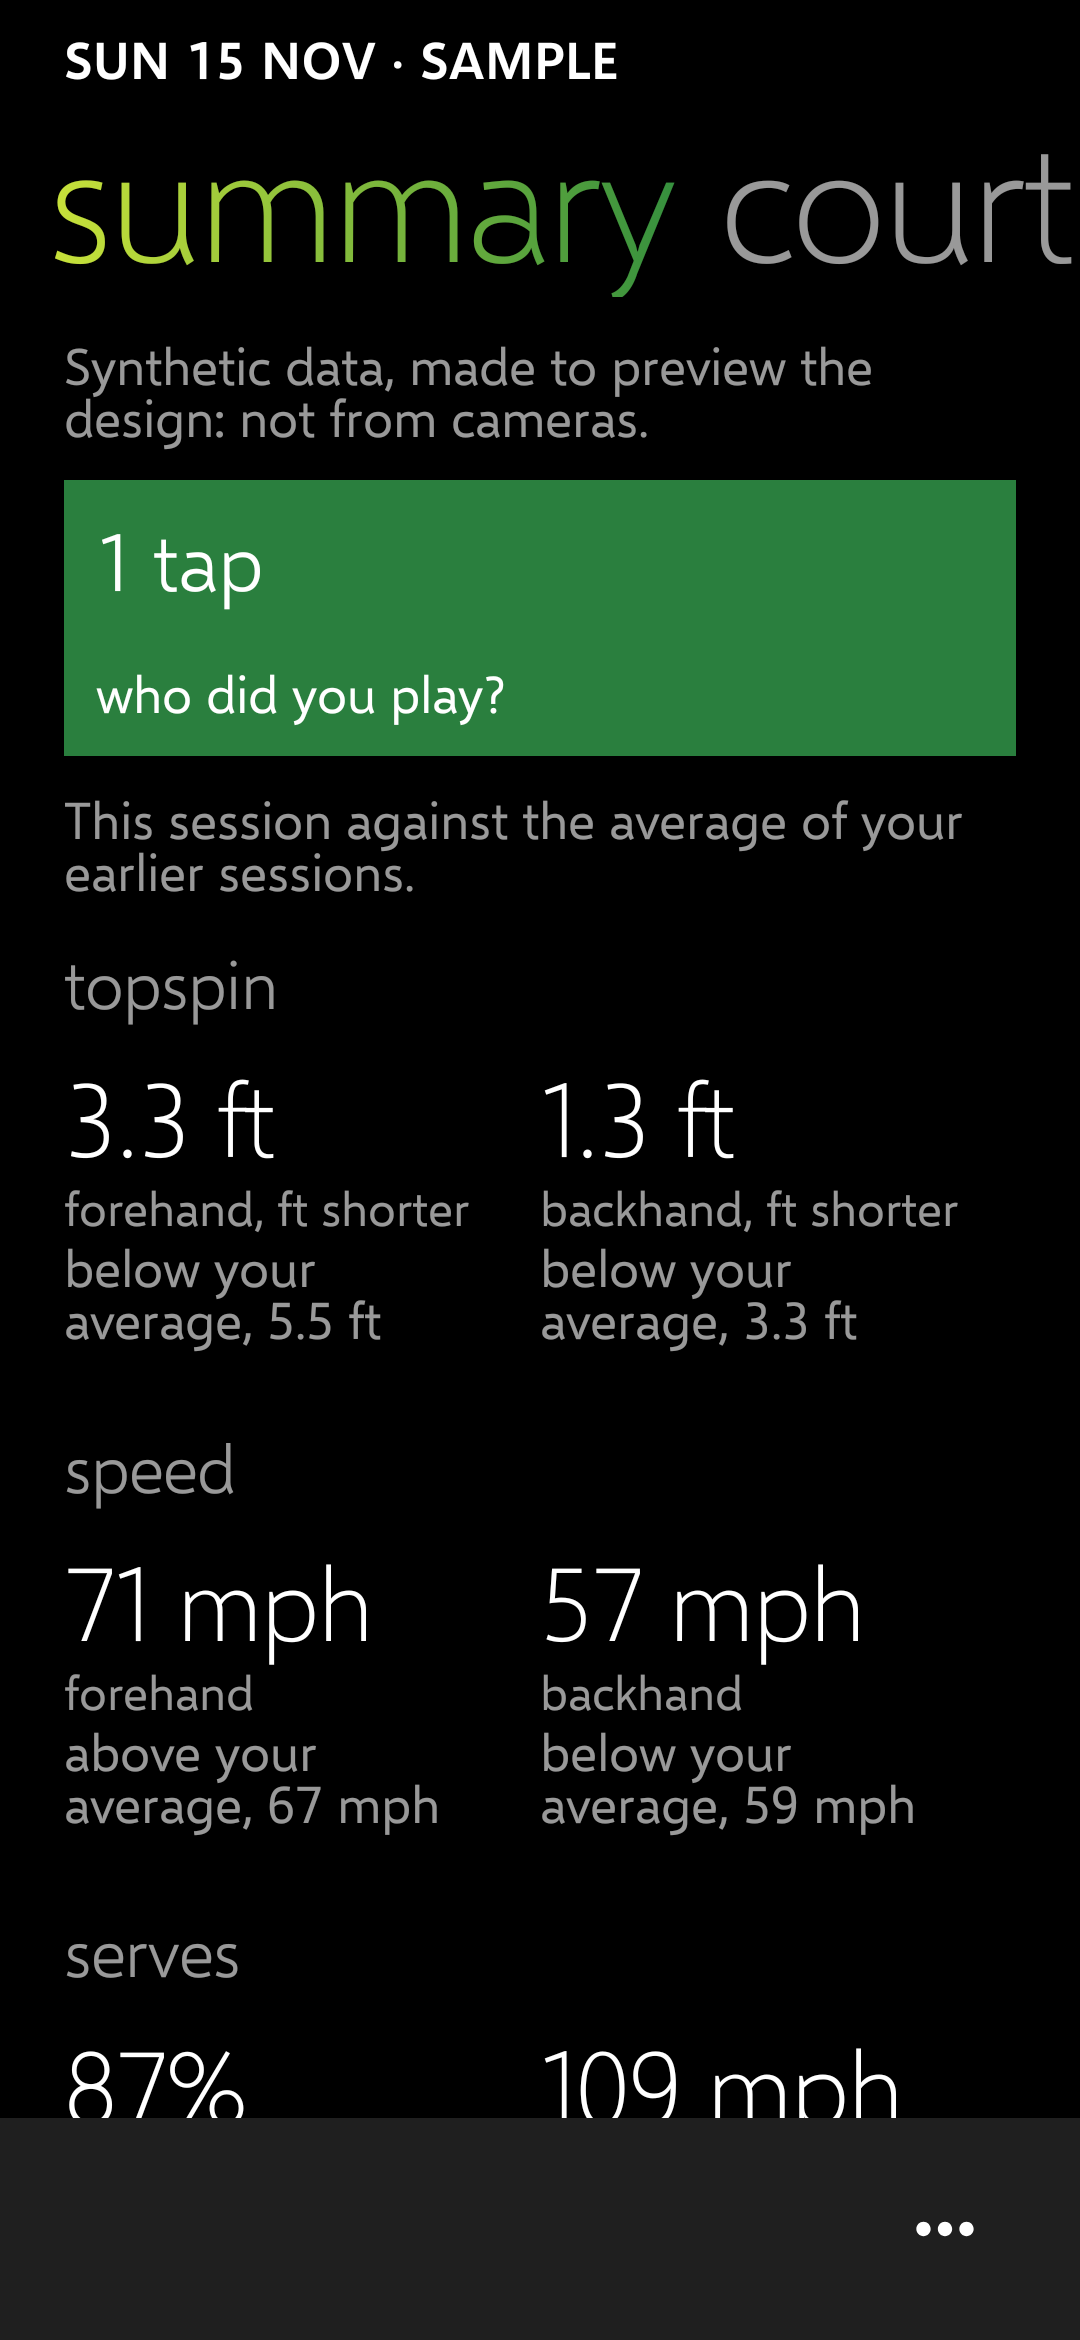
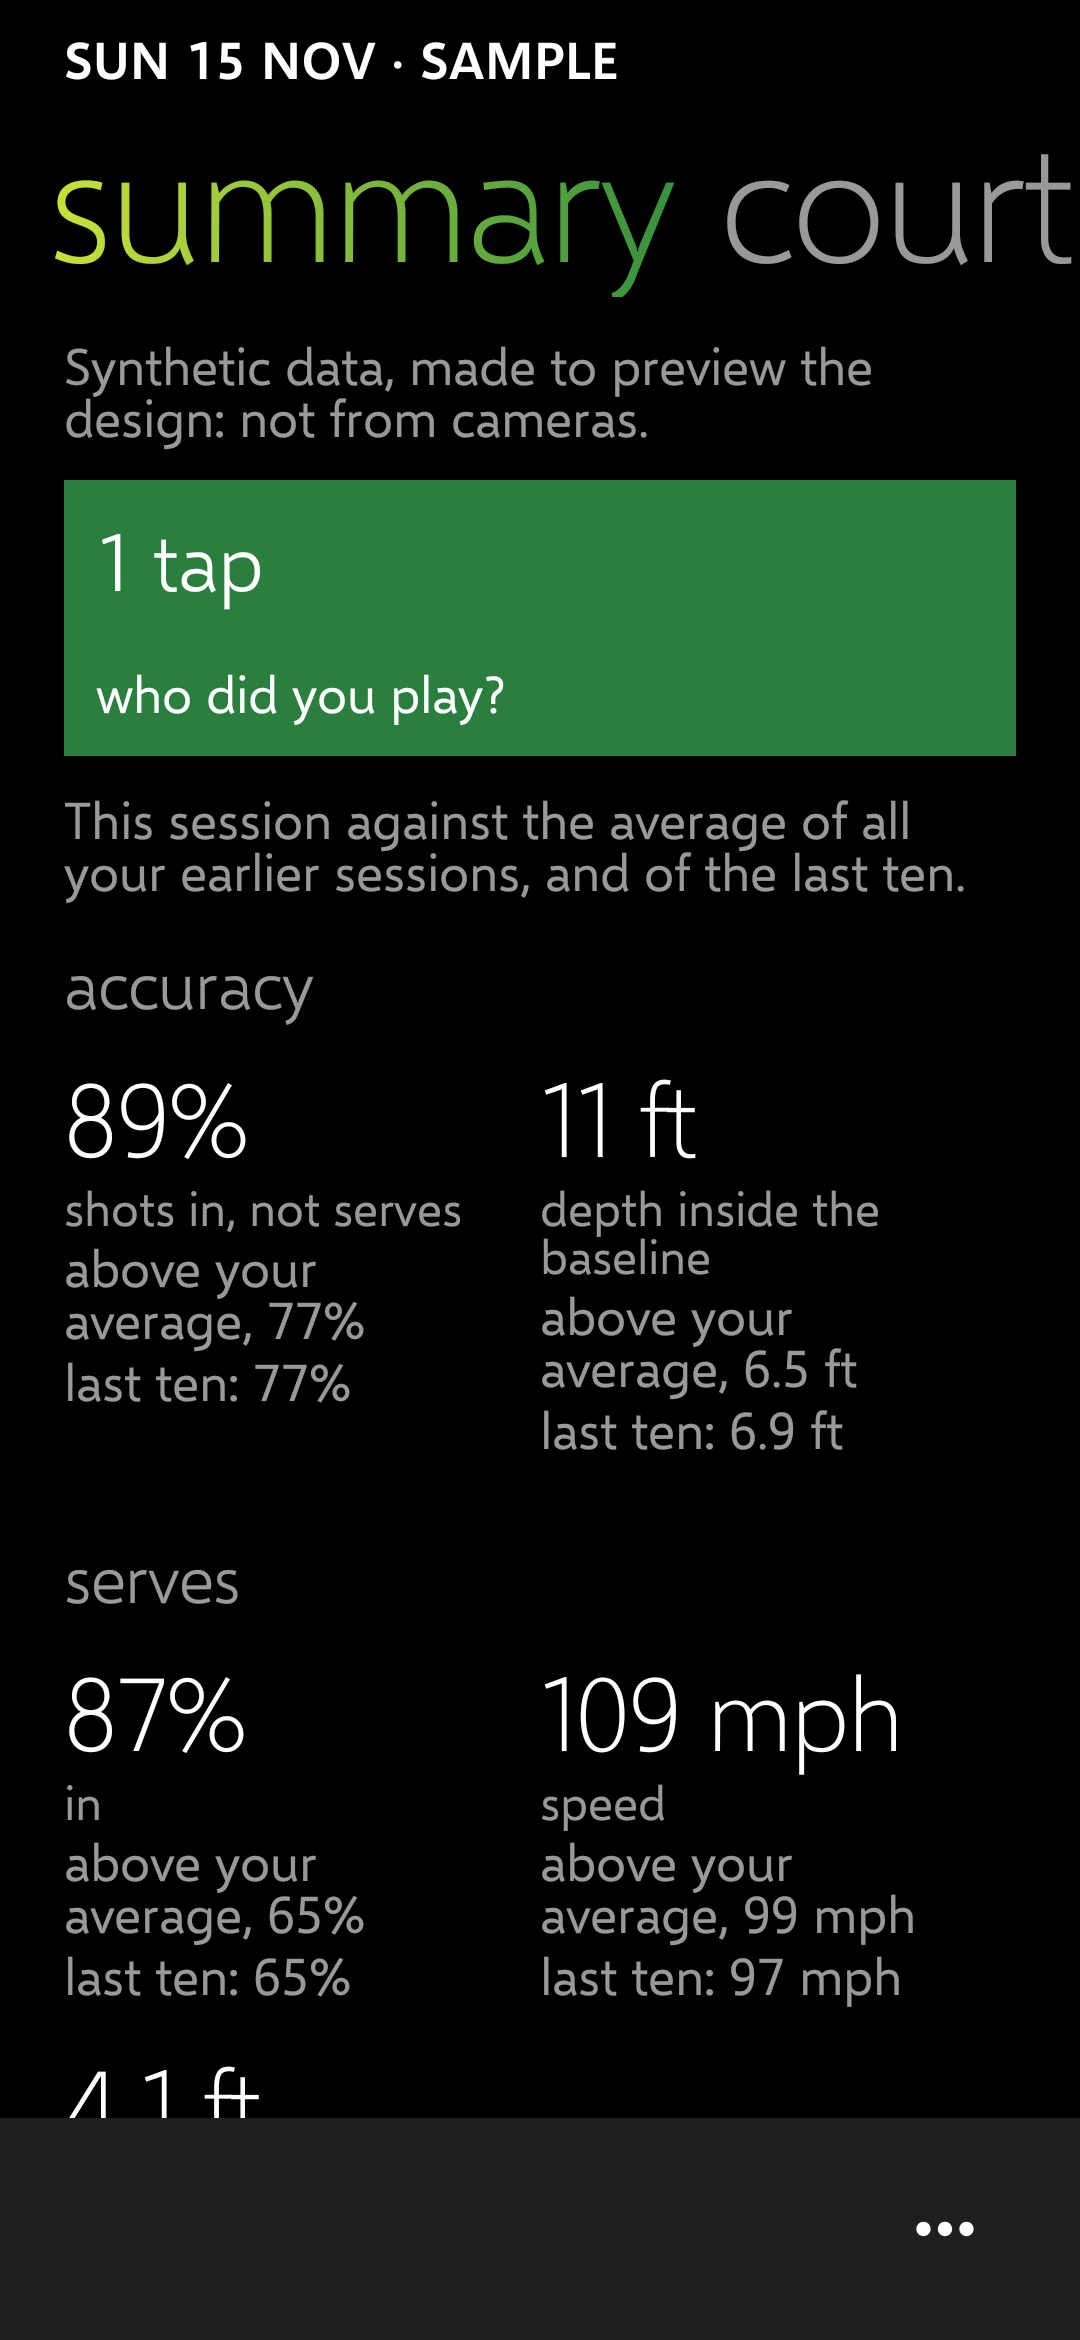
Summary: average of all earlier sessions and of the last ten; rolling average on trends; groups accuracy, serves, topspin, speed
Claude-Session: https://claude.ai/code/session_01Jom9oBgyZ95NZmA6815nUo

diff --git a/app/src/main/java/io/github/wotworth/tennis/ui/screens/VisionMetrics.kt b/app/src/main/java/io/github/wotworth/tennis/ui/screens/VisionMetrics.kt
@@ -40,26 +40,32 @@ private class Figure(val group: String, val label: String, val unit: Unit, val g
     fun axis(x: Double): String = if (unit == Unit.FT && kotlin.math.abs(x) < 10) "%.1f".format(java.util.Locale.US, x) else "${x.roundToInt()}"
 }
 
+// Chris, 17 Nov: in this order
 private val FIGURES = listOf(
+    Figure("accuracy", "shots in, not serves", Unit.PCT) { it.inPct?.toDouble() },
+    Figure("accuracy", "depth inside the baseline", Unit.FT) { it.depth },
+    Figure("serves", "in", Unit.PCT) { it.serveInPct?.toDouble() },
+    Figure("serves", "speed", Unit.MPH) { it.serveSpeed },
+    Figure("serves", "spin, ft shorter", Unit.FT) { it.serveSpin },
     Figure("topspin", "forehand, ft shorter", Unit.FT) { it.topspinForehand },
     Figure("topspin", "backhand, ft shorter", Unit.FT) { it.topspinBackhand },
     Figure("speed", "forehand", Unit.MPH) { it.speedForehand },
     Figure("speed", "backhand", Unit.MPH) { it.speedBackhand },
-    Figure("serves", "in", Unit.PCT) { it.serveInPct?.toDouble() },
-    Figure("serves", "speed", Unit.MPH) { it.serveSpeed },
-    Figure("serves", "spin, ft shorter", Unit.FT) { it.serveSpin },
-    Figure("accuracy", "shots in, not serves", Unit.PCT) { it.inPct?.toDouble() },
-    Figure("accuracy", "depth inside the baseline", Unit.FT) { it.depth },
 )
 
-private data class History(val now: SessionMetrics, val avg: SessionMetrics?, val points: List<Pair<Long, SessionMetrics>>)
+/** This session's figures, the average of all earlier sessions, of the last [RECENT] of them (when there are more), and the points. */
+private data class History(val now: SessionMetrics, val avg: SessionMetrics?, val recent: SessionMetrics?, val points: List<Pair<Long, SessionMetrics>>)
+
+/** Chris, 17 Nov: "your average" is shown two ways: all earlier sessions, and the last 10. */
+private const val RECENT = 10
 
 @Composable
 private fun history(v: VisionSession, me: String): History {
     val app = LocalApp.current
     val day = sessionDay(v)
-    val earlier = app.vision.trends(v.sample).filter { it.epochDay < day }.mapNotNull { p -> p.metrics?.let { p.epochDay to it } }
-    return History(SessionMetrics.of(v, me), earlier.takeIf { it.isNotEmpty() }?.let { SessionMetrics.average(it.map { e -> e.second }) }, earlier)
+    val earlier = app.vision.trends(v.sample).filter { it.epochDay < day }.mapNotNull { p -> p.metrics?.let { p.epochDay to it } }.sortedBy { it.first }
+    return History(SessionMetrics.of(v, me), earlier.takeIf { it.isNotEmpty() }?.let { SessionMetrics.average(it.map { e -> e.second }) },
+        earlier.takeIf { it.size > RECENT }?.let { SessionMetrics.average(it.takeLast(RECENT).map { e -> e.second }) }, earlier)
 }
 
 /** The summary's key figures: this session's, against the average of the earlier ones. */
@@ -68,7 +74,8 @@ fun KeyFigures(v: VisionSession, me: String) {
     val zpx = LocalZpx.current
     val h = history(v, me)
     TennisText(if (h.avg == null) "Your first session: from the next one on, each figure is compared with your average."
-        else "This session against the average of your earlier sessions.", TennisTokens.Type.listSecondary)
+        else "This session against the average of all your earlier sessions" + (if (h.recent != null) ", and of the last ten." else "."),
+        TennisTokens.Type.listSecondary)
     FIGURES.groupBy { it.group }.forEach { (group, figs) ->
         SectionHeader(group)
         figs.chunked(2).forEach { row ->
@@ -88,6 +95,7 @@ fun KeyFigures(v: VisionSession, me: String) {
                                 else -> "below"
                             }
                             TennisText("$word your average, $a", TennisTokens.Type.listSecondary, maxLines = 2)
+                            h.recent?.let { f.get(it) }?.let { r -> TennisText("last ten: ${f.show(r)}", TennisTokens.Type.listSecondary, maxLines = 1) }
                         }
                     }
                 }
@@ -112,14 +120,15 @@ fun SessionTrends(v: VisionSession, me: String?) {
         val day = sessionDay(v)
         val racquet = d.racquet(app.prefs.selectedRacquet ?: -1) ?: d.active.firstOrNull()
         val jobs = d.jobs.filter { it.racquetId == racquet?.id }
-        TennisText("Each session's figure; this one in green." + (racquet?.let { " Dashed: restrings of ${it.name}, with the tension." } ?: ""), TennisTokens.Type.listSecondary)
+        TennisText("Each session's figure; this one in green. Grey: the average of the last ten sessions at each point, so you can see which way it's heading." +
+            (racquet?.let { " Dashed: restrings of ${it.name}, with the tension." } ?: ""), TennisTokens.Type.listSecondary)
         FIGURES.groupBy { it.group }.forEach { (group, figs) ->
             SectionHeader(group)
             figs.forEach { f ->
                 val pts = (h.points.mapNotNull { (dd, m) -> f.get(m)?.let { dd to f.shown(it) } } +
                     listOfNotNull(f.get(h.now)?.let { day to f.shown(it) })).sortedBy { it.first }
                 if (pts.size >= 2) {
-                    TrendChart(f.label, pts, jobs, highlight = day, format = { x -> f.axis(x) }, caption = false)
+                    TrendChart(f.label, pts, jobs, highlight = day, format = { x -> f.axis(x) }, caption = false, rollingAverage = RECENT)
                     Spacer(Modifier.height(zpx(10f)))
                 }
             }

diff --git a/app/src/main/java/io/github/wotworth/tennis/ui/screens/VisionScreens.kt b/app/src/main/java/io/github/wotworth/tennis/ui/screens/VisionScreens.kt
@@ -460,7 +460,8 @@ fun VisionTrends() {
 
 @Composable
 internal fun TrendChart(title: String, pts: List<Pair<Long, Double>>, jobs: List<io.github.wotworth.tennis.data.StringJob>,
-                        highlight: Long? = null, format: (Double) -> String = { "%.1f".format(Locale.US, it) }, caption: Boolean = true) {
+                        highlight: Long? = null, format: (Double) -> String = { "%.1f".format(Locale.US, it) }, caption: Boolean = true,
+                        rollingAverage: Int = 0) {
     val zpx = LocalZpx.current
     val measurer = androidx.compose.ui.text.rememberTextMeasurer()
     val small = io.github.wotworth.tennis.ui.theme.textStyleFor(TennisTokens.Type.listSecondary)
@@ -486,6 +487,15 @@ internal fun TrendChart(title: String, pts: List<Pair<Long, Double>>, jobs: List
         val path = Path()
         pts.forEachIndexed { i, (day, v) -> if (i == 0) path.moveTo(x(day), y(v)) else path.lineTo(x(day), y(v)) }
         drawPath(path, TennisTokens.Colors.primary, style = Stroke(2f * density))
+        if (rollingAverage > 1 && pts.size > 2) {
+            // the average of the last [rollingAverage] points at each point (Chris, 17 Nov): which way it's heading
+            val avg = Path()
+            pts.forEachIndexed { i, (day, _) ->
+                val m = pts.subList(maxOf(0, i - rollingAverage + 1), i + 1).map { it.second }.average()
+                if (i == 0) avg.moveTo(x(day), y(m)) else avg.lineTo(x(day), y(m))
+            }
+            drawPath(avg, TennisTokens.Colors.secondary, style = Stroke(2.5f * density))
+        }
         pts.forEach { (day, v) ->
             if (day == highlight) drawCircle(TennisTokens.Colors.me, 6f * density, Offset(x(day), y(v)))
             else drawCircle(TennisTokens.Colors.primary, 3f * density, Offset(x(day), y(v)))

diff --git a/app/spoof/make_spoof_session.py b/app/spoof/make_spoof_session.py
@@ -229,8 +229,10 @@ assert not odd_counts(), odd_counts()
 def rhu(x): return int(math.floor(x + 0.5))
 def mph_s(ms): return str(rhu(ms * MPH))
 def ft_s(m):
+    # as the app's String.format: Java rounds the shortest decimal form half up (2.15 -> 2.2)
+    from decimal import Decimal, ROUND_HALF_UP
     v = m * FT
-    return '%.1f' % v if abs(v) < 10 else str(rhu(v))
+    return str(Decimal(repr(v)).quantize(Decimal('0.1'), rounding=ROUND_HALF_UP)) if abs(v) < 10 else str(rhu(v))
 def odd_s(t): return int(t[-1]) % 2 == 1
 def mean(xs): return sum(xs) / len(xs) if xs else None
 def median(xs):
@@ -403,27 +405,16 @@ session = {
                            {'reason': 'implausible flight', 'n': 1}]},
 }
 
-# trends: eleven made-up sessions; the chart labels (max x 1.1 and min x 0.85, one decimal) odd
+# trends: seventeen made-up sessions, the last on this session's day (16 earlier: more than the
+# ten the summary's second average takes); every value odd, so the charts' labels (lowest and
+# highest value) are too
 trend = {'synthetic': True, 'note': 'SPOOF trend: made-up numbers, none of them even.', 'sessions': []}
-day0 = 20741
-for i in range(11):
-    trend['sessions'].append({'epochDay': day0 + 3 * i + (i % 3), 'forehandSpinEffect': -m_from_ft(odd4(53, 97) / 10.0),
+N_TREND = 17
+for i in range(N_TREND):
+    k = N_TREND - 1 - i
+    trend['sessions'].append({'epochDay': 20772 - 3 * k - (k % 3), 'forehandSpinEffect': -m_from_ft(odd4(53, 97) / 10.0),
                               'forehandDepth': m_from_ft(odd4(41, 89) / 10.0), 'shots': odd4(101, 197)})
 
-
-def chart_ok(vals):
-    hi = max(vals) * 1.1; lo = min(vals) * 0.85
-    return int(('%.1f' % hi)[-1]) % 2 == 1 and int(('%.1f' % lo)[-1]) % 2 == 1
-
-
-for key, f in (('forehandSpinEffect', lambda v: -v * FT), ('forehandDepth', lambda v: v * FT)):
-    for _ in range(500):
-        vals = [f(s[key]) for s in trend['sessions']]
-        if chart_ok(vals): break
-        j = rng.randrange(11)
-        sign = -1 if key == 'forehandSpinEffect' else 1
-        trend['sessions'][j][key] = sign * m_from_ft(odd4(41, 97) / 10.0)
-    assert chart_ok([f(s[key]) for s in trend['sessions']]), key
 
 # key figures of the earlier sessions (every trend point before this session's day): each
 # value shown odd, and their averages (what the summary compares with) odd too
@@ -436,18 +427,20 @@ def hist_value(kind, lo, hi):
 earlier = [p for p in trend['sessions'] if p['epochDay'] < 20772]
 for p in earlier:
     p['metrics'] = {k: hist_value(*r) for k, r in RANGES.items()}
-def avg_shown(k):
-    vals = [p['metrics'][k] for p in earlier]
+def avg_shown(k, last=None):
+    vals = [p['metrics'][k] for p in (earlier[-last:] if last else earlier)]
     kind = RANGES[k][0]
     if kind == 'pct': return str(rhu(sum(vals) / len(vals)))
     return ft_s(sum(vals) / len(vals)) if kind == 'ft' else mph_s(sum(vals) / len(vals))
+# both averages the summary shows (Chris, 17 Nov): all earlier sessions, and the last ten
+assert len(earlier) > 10, len(earlier)
 for k, (kind, lo, hi) in RANGES.items():
-    for _ in range(500):
-        if odd_s(avg_shown(k)): break
-        p = rng.choice(earlier)
-        step = m_from_ft(0.2) if kind == 'ft' else ms_from_mph(2) if kind == 'mph' else 2
-        p['metrics'][k] += rng.choice([-1, 1]) * step
-    assert odd_s(avg_shown(k)), k
+    step = m_from_ft(0.2) if kind == 'ft' else ms_from_mph(2) if kind == 'mph' else 2
+    for _ in range(2000):
+        if odd_s(avg_shown(k, 10)) and odd_s(avg_shown(k)): break
+        pool = earlier[-10:] if not odd_s(avg_shown(k, 10)) else earlier[:-10]
+        rng.choice(pool)['metrics'][k] += rng.choice([-1, 1]) * step
+    assert odd_s(avg_shown(k, 10)) and odd_s(avg_shown(k)), k
 
 # ball check: an odd number of frames
 checks = json.load(open(os.path.join(OUT, 'checks.json')))

diff --git a/docs/reports/DESIGN-V2-3.md b/docs/reports/DESIGN-V2-3.md
@@ -6,15 +6,15 @@ Release: RELEASE_LINK
 | --- | --- |
 | ![summary](design-v2-3/summary.png) | ![trends](design-v2-3/trends.png) |
 
-**Summary.** It now opens with your key figures for the session, each with "above / below / same as your average" and the average itself. "Your average" is the average of all your earlier sessions (your choice).
+**Summary.** It now opens with your key figures for the session, in the order you asked. Each figure shows "above / below / same as your average" with the average of all your earlier sessions, then the average of the **last ten** underneath, so you can see if your average is moving.
+- **Accuracy:** % of your shots in, serves left out, and how deep the ones in landed.
+- **Serves:** % in, speed, and spin (its commonest kind, such as topspin or slice, and how many feet shorter it made the serve land).
 - **Topspin:** forehand and backhand: how many feet shorter spin made the ball land, against the same shot without spin.
 - **Speed:** forehand and backhand at contact, serves left out.
-- **Serves:** % in, speed, and spin (its commonest kind, such as topspin or slice, and how many feet shorter it made the serve land).
-- **Accuracy:** % of your shots in, serves left out, and how deep the ones in landed.
 
 The figures appear once "which one is you?" is answered, because until then the app doesn't know which player is you. The older per-player rows stay below.
 
-**Trends tab.** A new fifth tab shows each figure over your sessions, with this session as a large green dot and the restrings of your racquet as dashed lines. That makes it easy to spot a change after new strings or a tweak.
+**Trends tab.** A new fifth tab shows each figure over your sessions, with this session as a large green dot and the restrings of your racquet as dashed lines. A **grey line** is the average of the last ten sessions at each point, so you can see which way it's heading. That makes it easy to spot a change after new strings or a tweak.
 
 **The sample session.** Its earlier sessions now have made-up figures too, and every number on these pages is still odd. The odd-numbers check passes.
 

diff --git a/DECISIONS.md b/DECISIONS.md
@@ -165,3 +165,4 @@ Choices made where the spec was silent, or changed by Chris. Newest last.
 | 2026-11-17 | Footage tests (app) | Chris, 17 Nov: the two iPhone footage tests were temporary and are removed from the app (no bundled tests; the footage-test screens stay for later one-camera tests). The report FOOTAGE-TEST-1 and its images stay in the repository. | Chris's request. |
 | 2026-11-17 | VIS-09 court map | Chris, 17 Nov: pinch to zoom the court map (up to 6×, two fingers also move it; double-tap for the whole court), dots the same size on screen so one among many can be tapped. A second finger stops the tab swipe, so a pinch never turns the page. | Chris's request. |
 | 2026-11-17 | TV-APP summary, trends | Chris, 17 Nov: the session summary opens with key figures (topspin forehand/backhand; speed forehand/backhand, no serves; serves: in %, speed, spin kind and effect; accuracy: % in without serves, depth), each against the average of all earlier sessions (his choice); a fifth session tab "trends" plots each figure by session, this one marked. Shown once "which one is you?" is answered. Trend chart axes show the lowest and highest values (were padded constants). Spoof history carries the figures, all odd, with odd averages. | Chris's request and choices. |
+| 2026-11-17 | TV-APP summary, trends | Chris, 17 Nov (amends the row above): each key figure shows two averages, all earlier sessions and the last ten; trend charts add a grey rolling average of the last ten; groups ordered accuracy, serves, topspin, speed. "Ten" is spelled out (an even number on a vision screen would fail the spoof check). Spoof history: 17 sessions, both averages odd. | Chris's correction. |
